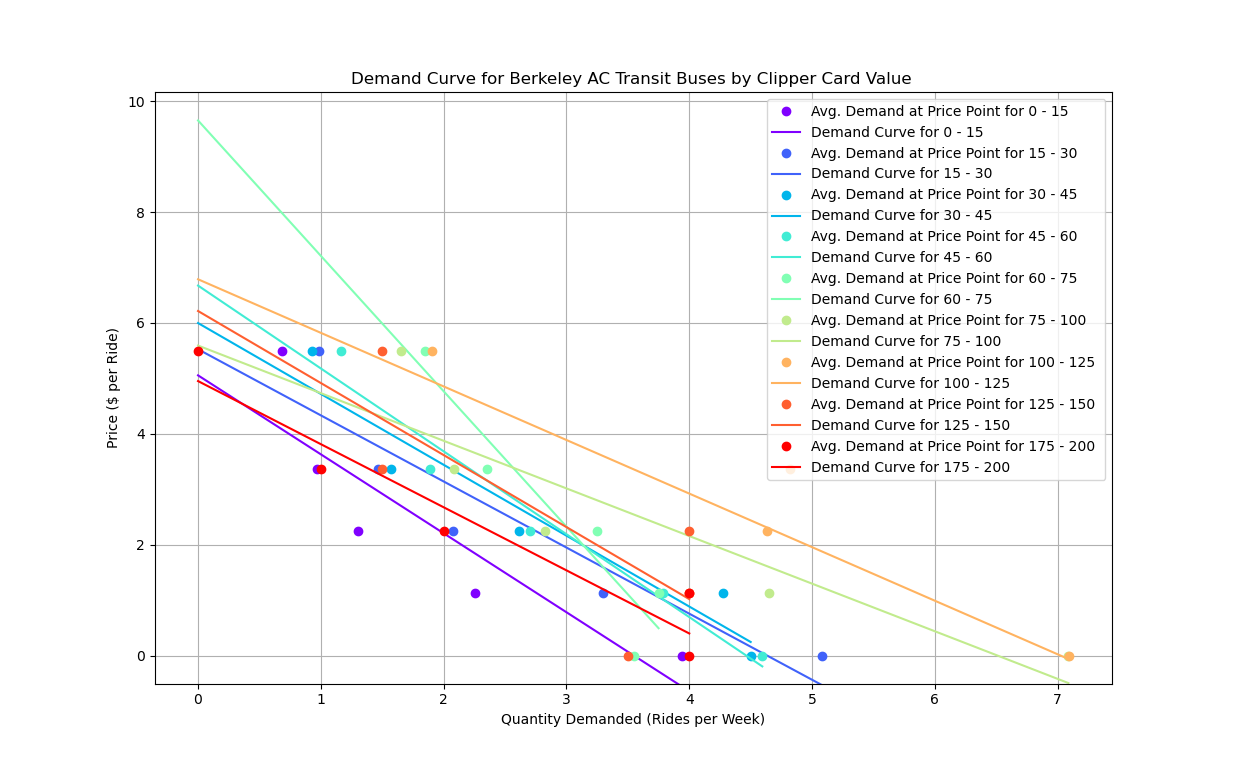
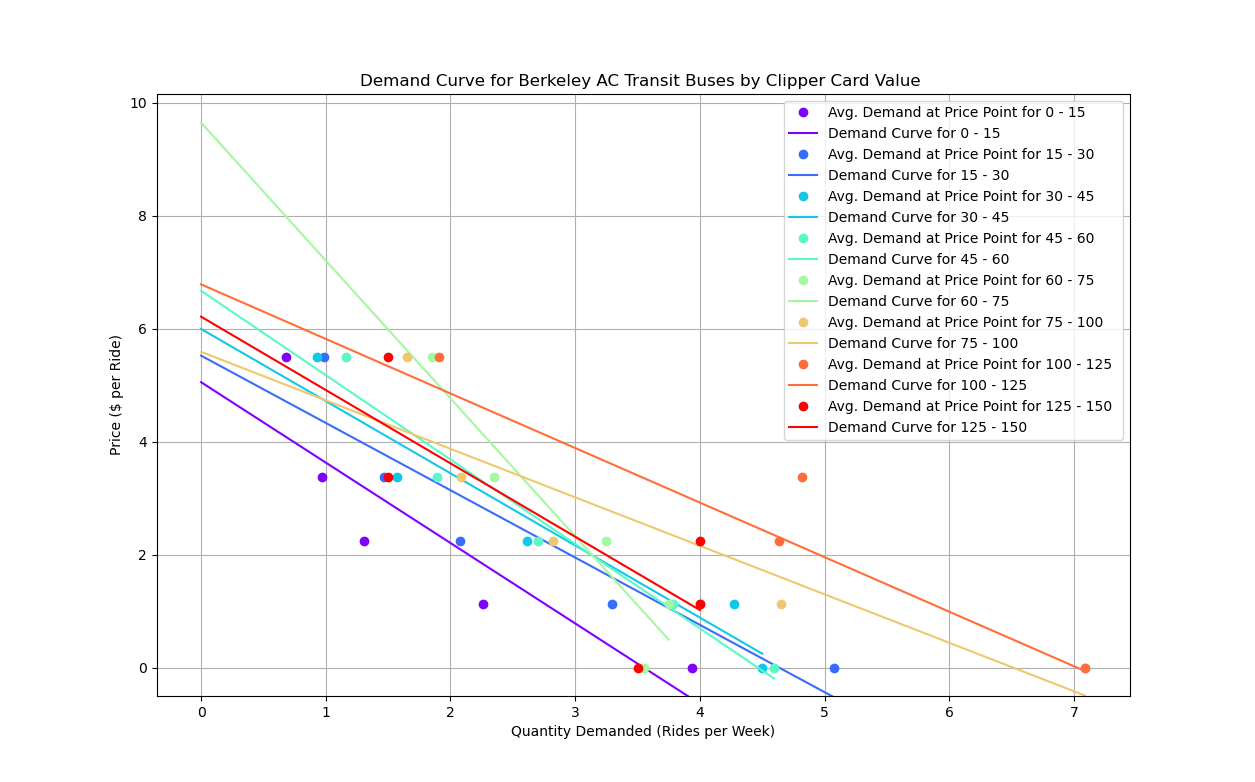
updated figures

diff --git a/Code/multiple_lr_demand_model.py b/Code/multiple_lr_demand_model.py
@@ -33,7 +33,8 @@ def priceDemandByFilter(trueData, filter_col):
     
     # for clipper card values only, get rid of outlier terms
     if filter_col == 'Clipper Card Value ':
-        filter_col_values = filter_col_values[:-2]
+        filter_col_values = filter_col_values[:-3]
+        print(len(trueData[trueData[filter_col] == filter_col_values[-2]]))
         
     for val in filter_col_values:
         print(val)
